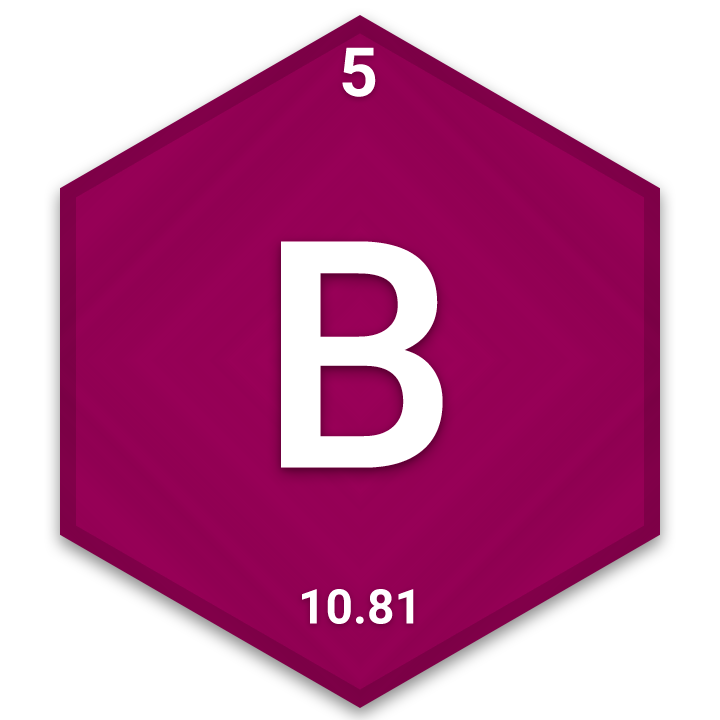
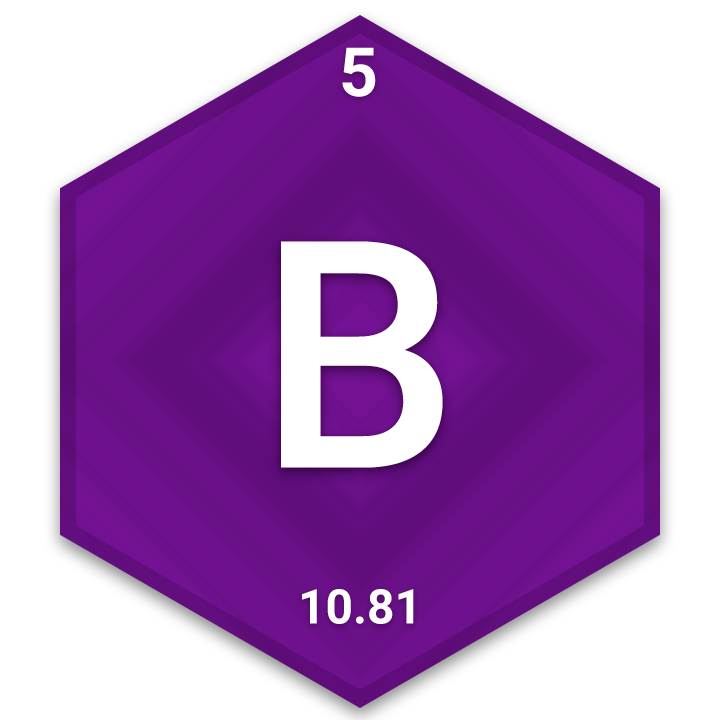
Design updates and bugfixes

diff --git a/profile/profile.css b/profile/profile.css
@@ -225,7 +225,7 @@ h2 {
   background: linear-gradient(to bottom right, #FFC107, #FFB300);
 }
 .team5 {
-  background: linear-gradient(to bottom right, #94007e, #610052);
+  background: linear-gradient(to bottom right, #8b14b3, #610d7b);
 }
 .team6 {
   background: linear-gradient(to bottom right, #666666, #4d4d4d);
@@ -391,6 +391,7 @@ a.button3:active{
     display: block;
     margin-bottom: 5vw;
     margin-right: 0px;
+    position: absolute;
   }
   #teamImage {
     width: 30vw;
@@ -402,11 +403,11 @@ a.button3:active{
   .points {
     font-size: 5.5vw;
   }
-  table {
+  #teamTable {
     margin-top: 4vw;
   }
-  .card:hover {
-    transform: scale(1.0);
+  #teamCard {
+    margin-top: 21em;
   }
 }
 

diff --git a/home/home.css b/home/home.css
@@ -186,8 +186,8 @@
 }
 
 @keyframes listLoadAnimation {
-  from {width: 0px; max-height: 50px}
-  to {width: 50vw; max-height:50px};
+  from {width: 0px; max-height: 56px}
+  to {width: 50vw; max-height:56px};
 }
 
 /* Default Style */
@@ -454,7 +454,7 @@ i.menuIcons {
     margin-top: 0vh;
   }
   @keyframes listLoadAnimation {
-    from {width: 0px; max-height: 50px}
-    to {width: 90vw; max-height:50px};
+    from {width: 0px; max-height: 56px}
+    to {width: 90vw; max-height:56px};
   }
 }

diff --git a/profile.html b/profile.html
@@ -56,7 +56,7 @@
 				</tr>
 			</table>
 			<div>
-				<h3 style="margin-bottom:10px; margin-top: 10px;">Configurações de usuário</h3>
+				<h3 style="margin-bottom:10px; margin-top: 20px;">Configurações de usuário</h3>
 				<a class="button3" onclick="updateUserName()">Alterar Nome</a>
 				<a class="button3" onclick="uploadPhoto()">Alterar Imagem</a>
 				<a class="button3" onclick="changePassword()">Alterar Senha</a>

diff --git a/updates/updates.css b/updates/updates.css
@@ -61,7 +61,7 @@ ul {
 }
 
 .team5 {
-  background: linear-gradient(to bottom right, #94007e, #610052);
+  background: linear-gradient(to bottom right, #8b14b3, #610d7b);
 }
 
 .team6 {
